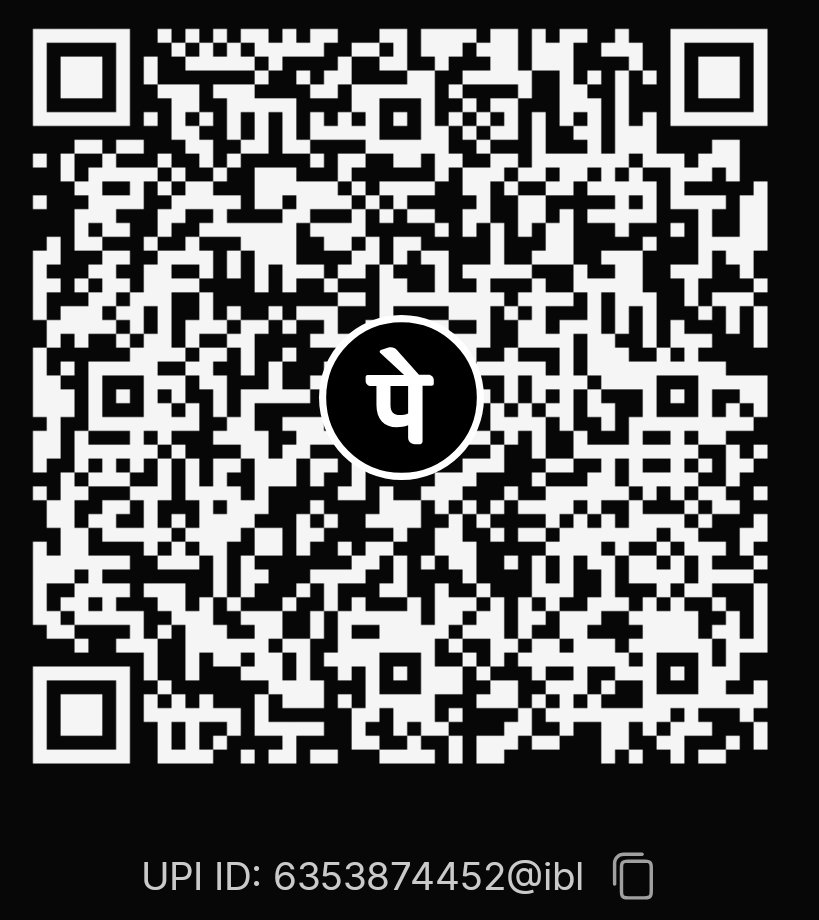
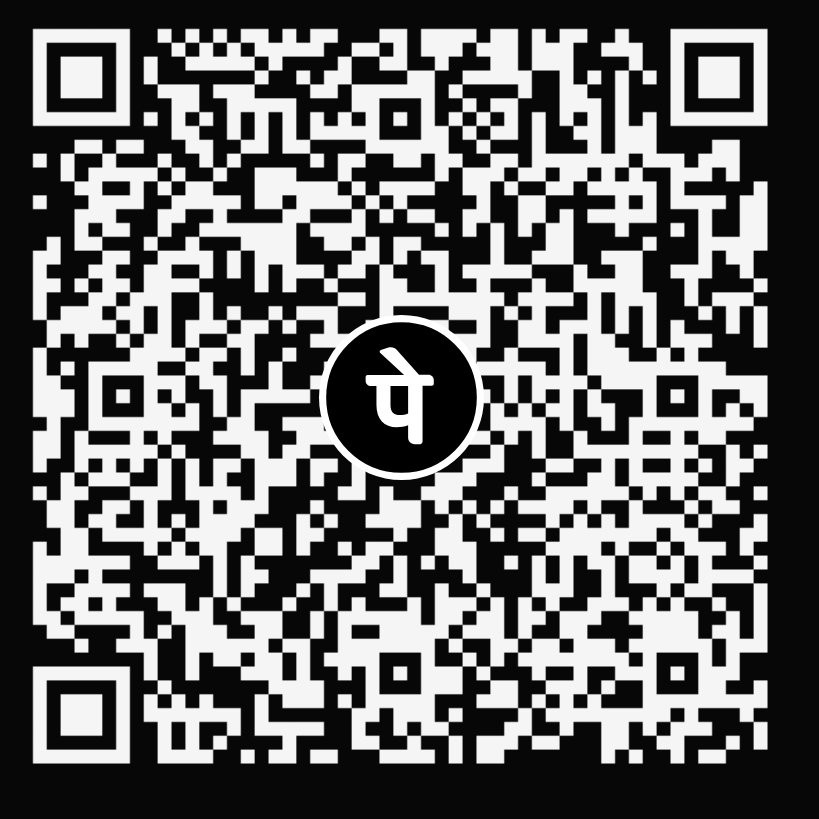
fix: remove duplicate UPI strip from QR image and remove accepting apps bar

diff --git a/client/src/components/UpiQrCard.tsx b/client/src/components/UpiQrCard.tsx
@@ -84,17 +84,6 @@ export function UpiQrCard({
         <h3 className="font-display text-base font-bold text-slate-100">{title}</h3>
         <p className="text-xs text-slate-400 mt-0.5">{subtitle}</p>
       </div>
-
-      {/* Supported UPI Apps Bar */}
-      {showUpiApps && (
-        <div className="mt-5 pt-4 border-t border-slate-800 flex items-center justify-center gap-2 text-slate-400 flex-wrap">
-          <span className="text-[10px] uppercase font-bold tracking-wider text-slate-400 mr-1">Accepting:</span>
-          <span className="px-2 py-0.5 rounded bg-slate-800 text-[11px] font-extrabold text-blue-400 border border-slate-700">GPay</span>
-          <span className="px-2 py-0.5 rounded bg-slate-800 text-[11px] font-extrabold text-purple-400 border border-slate-700">PhonePe</span>
-          <span className="px-2 py-0.5 rounded bg-slate-800 text-[11px] font-extrabold text-sky-400 border border-slate-700">Paytm</span>
-          <span className="px-2 py-0.5 rounded bg-slate-800 text-[11px] font-extrabold text-emerald-400 border border-slate-700">BHIM</span>
-        </div>
-      )}
     </div>
   );
 }
